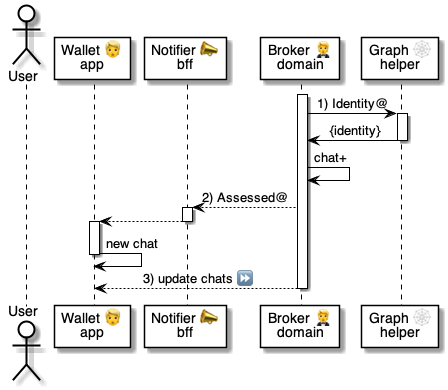
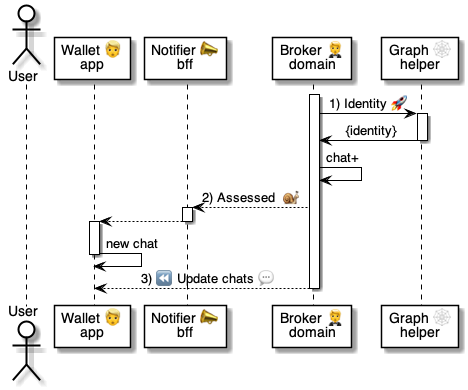
.

diff --git a/5 ⏩ Flows/10 🤵⏩ Brokers/02 🤵⏩🗄 Bind vault.md b/5 ⏩ Flows/10 🤵⏩ Brokers/02 🤵⏩🗄 Bind vault.md
@@ -19,8 +19,8 @@
 
 | # | API | Description |
 |-|-|-
-| 1 | [👥🚀🕸 Translate @ Graph](<../../6 🅰 APIs/45 🕸🅰 Graph/06 👥🚀🕸 Translate.md>) | The [Broker 🤵](<../../4 ⚙ Solution/20 🧑🦰 UI/03 🤵 Brokers/03 🤵 Broker domain.md>) translates into the user's language
-| 2 | [🤗⏩🧑🦰 Prompt @ Host](<../50 🤗⏩ Hosts/01 🤗⏩🧑🦰 Prompt.md>) | The [Broker 🤵](<../../4 ⚙ Solution/20 🧑🦰 UI/03 🤵 Brokers/03 🤵 Broker domain.md>) informs the user about the [Bind 🔗](<../../4 ⚙ Solution/20 🧑🦰 UI/24 🗄 Vaults/01 🔗 Bind.md>)
-| 3 | [🤵🐌🗄 Bound @ Vault](<../../6 🅰 APIs/95 🗄🅰 Vault/02 🤵🐌🗄 Bound.md>)| Tell [Vaults 🗄](<../../4 ⚙ Solution/20 🧑🦰 UI/24 🗄 Vaults/03 🗄🎭 Vault role.md>) about each bound [Schema Code 🧩](<../../4 ⚙ Solution/20 🧑🦰 UI/24 🗄 Vaults/02 🧩 Schema Code.md>)
-| 4 | [🤵⏩🧑🦰 Update Binds](<03 🤵⏩🧑🦰 Update binds.md>) | [Brokers 🤵](<../../4 ⚙ Solution/20 🧑🦰 UI/03 🤵 Brokers/03 🤵 Broker domain.md>) asks [Wallets 🧑🦰](<../../4 ⚙ Solution/20 🧑🦰 UI/01 🧑🦰 Wallets/01 🧑🦰 Wallet app.md>) to update the [Binds 🔗](<../../4 ⚙ Solution/20 🧑🦰 UI/24 🗄 Vaults/01 🔗 Bind.md>)
+| 1 | [👥🚀🕸 `Translate@Graph`](<../../6 🅰 APIs/45 🕸🅰 Graph/06 👥🚀🕸 Translate.md>) | The [Broker 🤵](<../../4 ⚙ Solution/20 🧑🦰 UI/03 🤵 Brokers/03 🤵 Broker domain.md>) translates into the user's language
+| 2 | [🤗⏩🧑🦰 Prompt 🤔](<../50 🤗⏩ Hosts/01 🤗⏩🧑🦰 Prompt.md>) | The [Broker 🤵](<../../4 ⚙ Solution/20 🧑🦰 UI/03 🤵 Brokers/03 🤵 Broker domain.md>) informs the user about the [Bind 🔗](<../../4 ⚙ Solution/20 🧑🦰 UI/24 🗄 Vaults/01 🔗 Bind.md>)
+| 3 | [🤵🐌🗄 `Bound@Vault`](<../../6 🅰 APIs/95 🗄🅰 Vault/02 🤵🐌🗄 Bound.md>)| Tell [Vaults 🗄](<../../4 ⚙ Solution/20 🧑🦰 UI/24 🗄 Vaults/03 🗄🎭 Vault role.md>) about each bound [Schema Code 🧩](<../../4 ⚙ Solution/20 🧑🦰 UI/24 🗄 Vaults/02 🧩 Schema Code.md>)
+| 4 | [🤵⏩🧑🦰 Update Binds 🔗](<03 🤵⏩🧑🦰 Update binds.md>) | [Brokers 🤵](<../../4 ⚙ Solution/20 🧑🦰 UI/03 🤵 Brokers/03 🤵 Broker domain.md>) asks [Wallets 🧑🦰](<../../4 ⚙ Solution/20 🧑🦰 UI/01 🧑🦰 Wallets/01 🧑🦰 Wallet app.md>) to update the [Binds 🔗](<../../4 ⚙ Solution/20 🧑🦰 UI/24 🗄 Vaults/01 🔗 Bind.md>)
 ||

diff --git a/5 ⏩ Flows/90 🧑🦰👉 Wallets/15 👉🔆 Locators/02 🧑🦰👉🤗 Scan printer QR.md b/5 ⏩ Flows/90 🧑🦰👉 Wallets/15 👉🔆 Locators/02 🧑🦰👉🤗 Scan printer QR.md
@@ -32,8 +32,8 @@
 | 1 | [👥🐌🏭 `Order@Supplier`](<../../../6 🅰 APIs/90 🏭🅰 Supplier/01 👥🐌🏭 Order.md>) | Order dynamic [Locators 🔆](<../../../4 ⚙ Solution/20 🧑🦰 UI/11 🔆 Locators/01 🔆 Locator.md>)
 | 2 | [🧑🦰🚀🤵 `Assess@Broker`](<../../../6 🅰 APIs/15 🤵🅰 Broker/30 🤵🅰 Chats 💬/01 🧑🦰🐌🤵 Assess.md>) | Parse the [Locator 🔆](<../../../4 ⚙ Solution/20 🧑🦰 UI/11 🔆 Locators/01 🔆 Locator.md>) in the [Broker 🤵](<../../../4 ⚙ Solution/20 🧑🦰 UI/03 🤵 Brokers/03 🤵 Broker domain.md>)
 | 3 | [👥🚀🖨 `Details@Printer`](<../../../6 🅰 APIs/75 🖨🅰 Printer/01 👥🚀🖨 Alias.md>) | Get the host's locator from the [Printer 🖨](<../../../4 ⚙ Solution/70 🌳 Ambient/71 💠 Brand Things/08 🖨🏭 Printer helper.md>)
-| 4 | [🤵⏩🧑🦰 Assessed](<../../10 🤵⏩ Brokers/01 🤵⏩🧑🦰 Assessed.md>) | Ask the [Wallet 🧑🦰](<../../../4 ⚙ Solution/20 🧑🦰 UI/01 🧑🦰 Wallets/01 🧑🦰 Wallet app.md>)  to open a chat window
-| 5 | [🔎⏩🧑🦰 Introduce](<../../40 🔎⏩ Finders/01 🔎⏩🧑🦰 Introduce.md>) | Ask the [Finder 🔎](<../../../4 ⚙ Solution/30 🫥 Agents/10 🔎 Finders/02 🔎🫥 Finder vault.md>) to introduce the [Host 🤗](<../../../4 ⚙ Solution/20 🧑🦰 UI/12 💬 Chats/04 🤗🎭 Host role.md>)
+| 4 | [🤵⏩🧑🦰 Assessed 🔆](<../../10 🤵⏩ Brokers/01 🤵⏩🧑🦰 Assessed.md>) | Ask the [Wallet 🧑🦰](<../../../4 ⚙ Solution/20 🧑🦰 UI/01 🧑🦰 Wallets/01 🧑🦰 Wallet app.md>)  to open a chat window
+| 5 | [🔎⏩🧑🦰 Introduce ⓘ](<../../40 🔎⏩ Finders/01 🔎⏩🧑🦰 Introduce.md>) | Ask the [Finder 🔎](<../../../4 ⚙ Solution/30 🫥 Agents/10 🔎 Finders/02 🔎🫥 Finder vault.md>) to introduce the [Host 🤗](<../../../4 ⚙ Solution/20 🧑🦰 UI/12 💬 Chats/04 🤗🎭 Host role.md>)
 | 6 | [🤵🐌🤗 `Hello@Host`](<../../../6 🅰 APIs/50 🤗🅰 Host/01 🤵🐌🤗 Hello.md>) | Ask the [Host 🤗](<../../../4 ⚙ Solution/20 🧑🦰 UI/12 💬 Chats/04 🤗🎭 Host role.md>) to interact.
 | 7 | [🤗⏩🧑🦰 Prompt 🤔](<../../50 🤗⏩ Hosts/01 🤗⏩🧑🦰 Prompt.md>) | The welcome message from the [Host 🤗](<../../../4 ⚙ Solution/20 🧑🦰 UI/12 💬 Chats/04 🤗🎭 Host role.md>) 
 ||

diff --git a/5 ⏩ Flows/90 🧑🦰👉 Wallets/15 👉🔆 Locators/01 🧑🦰👉🤗 Scan host QR.md b/5 ⏩ Flows/90 🧑🦰👉 Wallets/15 👉🔆 Locators/01 🧑🦰👉🤗 Scan host QR.md
@@ -26,8 +26,8 @@
 | # | Call | Notes
 |-|-|-
 | 1 | [🧑🦰🚀🤵 `Assess@Broker`](<../../../6 🅰 APIs/15 🤵🅰 Broker/30 🤵🅰 Chats 💬/01 🧑🦰🐌🤵 Assess.md>) | Parse the [Locator 🔆](<../../../4 ⚙ Solution/20 🧑🦰 UI/11 🔆 Locators/01 🔆 Locator.md>) in the [Broker 🤵 domain](<../../../4 ⚙ Solution/20 🧑🦰 UI/03 🤵 Brokers/03 🤵 Broker domain.md>)
-| 2 | [🤵⏩🧑🦰 Assessed](<../../10 🤵⏩ Brokers/01 🤵⏩🧑🦰 Assessed.md>) | Ask the [Wallet 🧑🦰 app](<../../../4 ⚙ Solution/20 🧑🦰 UI/01 🧑🦰 Wallets/01 🧑🦰 Wallet app.md>)  to open a chat window
-| 3 | [🔎⏩🧑🦰 Introduce](<../../40 🔎⏩ Finders/01 🔎⏩🧑🦰 Introduce.md>) | Ask the [Finder 🔎 domain](<../../../4 ⚙ Solution/30 🫥 Agents/10 🔎 Finders/02 🔎🫥 Finder vault.md>) to introduce the [Host 🤗 domain](<../../../4 ⚙ Solution/20 🧑🦰 UI/12 💬 Chats/04 🤗🎭 Host role.md>)
+| 2 | [🤵⏩🧑🦰 Assessed 🔆](<../../10 🤵⏩ Brokers/01 🤵⏩🧑🦰 Assessed.md>) | Ask the [Wallet 🧑🦰 app](<../../../4 ⚙ Solution/20 🧑🦰 UI/01 🧑🦰 Wallets/01 🧑🦰 Wallet app.md>)  to open a chat window
+| 3 | [🔎⏩🧑🦰 Introduce ⓘ](<../../40 🔎⏩ Finders/01 🔎⏩🧑🦰 Introduce.md>) | Ask the [Finder 🔎 domain](<../../../4 ⚙ Solution/30 🫥 Agents/10 🔎 Finders/02 🔎🫥 Finder vault.md>) to introduce the [Host 🤗 domain](<../../../4 ⚙ Solution/20 🧑🦰 UI/12 💬 Chats/04 🤗🎭 Host role.md>)
 | 4 | [🤵🐌🤗 `Hello@Host`](<../../../6 🅰 APIs/50 🤗🅰 Host/01 🤵🐌🤗 Hello.md>) | Ask the [Host 🤗 domain](<../../../4 ⚙ Solution/20 🧑🦰 UI/12 💬 Chats/04 🤗🎭 Host role.md>) to interact
 | 5 | [🤗⏩🧑🦰 Prompt 🤔](<../../50 🤗⏩ Hosts/01 🤗⏩🧑🦰 Prompt.md>) | The welcome message from the [Host 🤗 domain](<../../../4 ⚙ Solution/20 🧑🦰 UI/12 💬 Chats/04 🤗🎭 Host role.md>) 
 ||

diff --git a/5 ⏩ Flows/10 🤵⏩ Brokers/03 🤵⏩🧑🦰 Update binds.md b/5 ⏩ Flows/10 🤵⏩ Brokers/03 🤵⏩🧑🦰 Update binds.md
@@ -18,6 +18,6 @@
 
 | # | Call | Notes |
 |-|-|-
-| 1 | [🤵🐌📣 Updated @ Notifier](<../../6 🅰 APIs/65 📣🅰 Notifier/01 📣🤵🅰 Onboard/23 🤵🐌📣 Updated.md>)| The [Broker 🤵](<../../4 ⚙ Solution/20 🧑🦰 UI/03 🤵 Brokers/03 🤵 Broker domain.md>) tells the [Notifier 📣](<../../4 ⚙ Solution/20 🧑🦰 UI/02 📣 Notifiers/02 📣 Notifier domain.md>) to update the [Wallet 🧑🦰](<../../4 ⚙ Solution/20 🧑🦰 UI/01 🧑🦰 Wallets/01 🧑🦰 Wallet app.md>)
-| 2 | [🧑🦰🚀🤵 Binds @ Broker](<../../6 🅰 APIs/15 🤵🅰 Broker/40 🤵🅰 Binds 🔗/41 🧑🦰🚀🤵 Binds.md>) | The [Wallet 🧑🦰](<../../4 ⚙ Solution/20 🧑🦰 UI/01 🧑🦰 Wallets/01 🧑🦰 Wallet app.md>) gets the [Binds 🔗](<../../4 ⚙ Solution/20 🧑🦰 UI/24 🗄 Vaults/01 🔗 Bind.md>) from the [Broker 🤵](<../../4 ⚙ Solution/20 🧑🦰 UI/03 🤵 Brokers/03 🤵 Broker domain.md>)
+| 1 | [🤵🐌📣 `Updated@Notifier`](<../../6 🅰 APIs/65 📣🅰 Notifier/01 📣🤵🅰 Onboard/23 🤵🐌📣 Updated.md>)| The [Broker 🤵](<../../4 ⚙ Solution/20 🧑🦰 UI/03 🤵 Brokers/03 🤵 Broker domain.md>) tells the [Notifier 📣](<../../4 ⚙ Solution/20 🧑🦰 UI/02 📣 Notifiers/02 📣 Notifier domain.md>) to update the [Wallet 🧑🦰](<../../4 ⚙ Solution/20 🧑🦰 UI/01 🧑🦰 Wallets/01 🧑🦰 Wallet app.md>)
+| 2 | [🧑🦰🚀🤵 `Binds@Broker`](<../../6 🅰 APIs/15 🤵🅰 Broker/40 🤵🅰 Binds 🔗/41 🧑🦰🚀🤵 Binds.md>) | The [Wallet 🧑🦰](<../../4 ⚙ Solution/20 🧑🦰 UI/01 🧑🦰 Wallets/01 🧑🦰 Wallet app.md>) gets the [Binds 🔗](<../../4 ⚙ Solution/20 🧑🦰 UI/24 🗄 Vaults/01 🔗 Bind.md>) from the [Broker 🤵](<../../4 ⚙ Solution/20 🧑🦰 UI/03 🤵 Brokers/03 🤵 Broker domain.md>)
 ||

diff --git a/5 ⏩ Flows/10 🤵⏩ Brokers/04 🤵⏩🧑🦰 Update tokens.md b/5 ⏩ Flows/10 🤵⏩ Brokers/04 🤵⏩🧑🦰 Update tokens.md
@@ -17,6 +17,6 @@
 
 | # | Call | Notes |
 |-|-|-
-| 1 | [🤵🐌📣 Updated @ Notifier](<../../6 🅰 APIs/65 📣🅰 Notifier/01 📣🤵🅰 Onboard/23 🤵🐌📣 Updated.md>)| The [Broker 🤵](<../../4 ⚙ Solution/20 🧑🦰 UI/03 🤵 Brokers/03 🤵 Broker domain.md>) tells the [Notifier 📣](<../../4 ⚙ Solution/20 🧑🦰 UI/02 📣 Notifiers/02 📣 Notifier domain.md>) to update the [Wallet 🧑🦰](<../../4 ⚙ Solution/20 🧑🦰 UI/01 🧑🦰 Wallets/01 🧑🦰 Wallet app.md>)
-| 2 | [🧑🦰🚀🤵 Tokens @ Broker](<../../6 🅰 APIs/15 🤵🅰 Broker/50 🤵🅰 Tokens 🎫/54 🧑🦰🚀🤵 Tokens.md>) | The [Wallet 🧑🦰](<../../4 ⚙ Solution/20 🧑🦰 UI/01 🧑🦰 Wallets/01 🧑🦰 Wallet app.md>) gets the [Tokens 🎫](<../../4 ⚙ Solution/20 🧑🦰 UI/25 🎫 Tokens/01 🎫 Token.md>) from the [Broker 🤵](<../../4 ⚙ Solution/20 🧑🦰 UI/03 🤵 Brokers/03 🤵 Broker domain.md>)
+| 1 | [🤵🐌📣 `Updated@Notifier`](<../../6 🅰 APIs/65 📣🅰 Notifier/01 📣🤵🅰 Onboard/23 🤵🐌📣 Updated.md>)| [Brokers 🤵](<../../4 ⚙ Solution/20 🧑🦰 UI/03 🤵 Brokers/03 🤵 Broker domain.md>) tell [Notifiers 📣](<../../4 ⚙ Solution/20 🧑🦰 UI/02 📣 Notifiers/02 📣 Notifier domain.md>) to update [Wallets 🧑🦰](<../../4 ⚙ Solution/20 🧑🦰 UI/01 🧑🦰 Wallets/01 🧑🦰 Wallet app.md>)
+| 2 | [🧑🦰🚀🤵 `Tokens@Broker`](<../../6 🅰 APIs/15 🤵🅰 Broker/50 🤵🅰 Tokens 🎫/54 🧑🦰🚀🤵 Tokens.md>) | [Wallets 🧑🦰](<../../4 ⚙ Solution/20 🧑🦰 UI/01 🧑🦰 Wallets/01 🧑🦰 Wallet app.md>) get [Tokens 🎫](<../../4 ⚙ Solution/20 🧑🦰 UI/25 🎫 Tokens/01 🎫 Token.md>) from [Brokers 🤵](<../../4 ⚙ Solution/20 🧑🦰 UI/03 🤵 Brokers/03 🤵 Broker domain.md>)
 ||

diff --git a/5 ⏩ Flows/10 🤵⏩ Brokers/05 🤵⏩🧑🦰 Update chats.md b/5 ⏩ Flows/10 🤵⏩ Brokers/05 🤵⏩🧑🦰 Update chats.md
@@ -14,6 +14,6 @@
 
 | # | Call | Notes |
 |-|-|-
-| 1 | [🤵🐌📣 Updated @ Notifier](<../../6 🅰 APIs/65 📣🅰 Notifier/01 📣🤵🅰 Onboard/23 🤵🐌📣 Updated.md>)| The [Broker 🤵](<../../4 ⚙ Solution/20 🧑🦰 UI/03 🤵 Brokers/03 🤵 Broker domain.md>) tells the [Notifier 📣](<../../4 ⚙ Solution/20 🧑🦰 UI/02 📣 Notifiers/02 📣 Notifier domain.md>) to update the [Wallet 🧑🦰 app](<../../4 ⚙ Solution/20 🧑🦰 UI/01 🧑🦰 Wallets/01 🧑🦰 Wallet app.md>).
-| 2 | [🧑🦰🚀🤵 Chats @ Broker](<../../6 🅰 APIs/15 🤵🅰 Broker/30 🤵🅰 Chats 💬/02 🧑🦰🚀🤵 Chats.md>) | The [Wallet 🧑🦰 app](<../../4 ⚙ Solution/20 🧑🦰 UI/01 🧑🦰 Wallets/01 🧑🦰 Wallet app.md>) gets the [Chats 💬](<../../4 ⚙ Solution/20 🧑🦰 UI/12 💬 Chats/01 💬 Chat.md>) from the [Broker 🤵](<../../4 ⚙ Solution/20 🧑🦰 UI/03 🤵 Brokers/03 🤵 Broker domain.md>).
+| 1 | [🤵🐌📣 `Updated@Notifier`](<../../6 🅰 APIs/65 📣🅰 Notifier/01 📣🤵🅰 Onboard/23 🤵🐌📣 Updated.md>)| [Brokers 🤵](<../../4 ⚙ Solution/20 🧑🦰 UI/03 🤵 Brokers/03 🤵 Broker domain.md>) tell [Notifiers 📣](<../../4 ⚙ Solution/20 🧑🦰 UI/02 📣 Notifiers/02 📣 Notifier domain.md>) to update [Wallets 🧑🦰](<../../4 ⚙ Solution/20 🧑🦰 UI/01 🧑🦰 Wallets/01 🧑🦰 Wallet app.md>)
+| 2 | [🧑🦰🚀🤵 `Chats@Broker`](<../../6 🅰 APIs/15 🤵🅰 Broker/30 🤵🅰 Chats 💬/02 🧑🦰🚀🤵 Chats.md>) | [Wallets 🧑🦰](<../../4 ⚙ Solution/20 🧑🦰 UI/01 🧑🦰 Wallets/01 🧑🦰 Wallet app.md>) get [Chats 💬](<../../4 ⚙ Solution/20 🧑🦰 UI/12 💬 Chats/01 💬 Chat.md>) from [Brokers 🤵](<../../4 ⚙ Solution/20 🧑🦰 UI/03 🤵 Brokers/03 🤵 Broker domain.md>)
 ||

diff --git a/5 ⏩ Flows/70 ⭐⏩ Reviewers/01 ⭐⏩🧑🦰 Review.md b/5 ⏩ Flows/70 ⭐⏩ Reviewers/01 ⭐⏩🧑🦰 Review.md
@@ -14,7 +14,7 @@
 |-|-|-
 | 1 | [🤵🐌⭐ Rate @ Reviewer](<../../6 🅰 APIs/80 ⭐🅰 Reviewer/02 🤵🐌⭐ Rate.md>) | [Brokers 🤵](<../../4 ⚙ Solution/20 🧑🦰 UI/03 🤵 Brokers/03 🤵 Broker domain.md>) ask [Reviewers ⭐](<../../4 ⚙ Solution/30 🫥 Agents/10 🔎 Finders/01 ⭐🫥 Reviewer vault.md>) to review
 | 2 | [👥🚀🕸 Service @ Graph](<../../6 🅰 APIs/45 🕸🅰 Graph/09 👥🚀🕸 Offer.md>) | [Reviewers ⭐](<../../4 ⚙ Solution/30 🫥 Agents/10 🔎 Finders/01 ⭐🫥 Reviewer vault.md>) pull specific service questions 
-| 3 | [🤗⏩🧑🦰 Prompt @ Host](<../50 🤗⏩ Hosts/01 🤗⏩🧑🦰 Prompt.md>) | [Reviewers ⭐](<../../4 ⚙ Solution/30 🫥 Agents/10 🔎 Finders/01 ⭐🫥 Reviewer vault.md>) ask [Wallets 🧑🦰](<../../4 ⚙ Solution/20 🧑🦰 UI/01 🧑🦰 Wallets/01 🧑🦰 Wallet app.md>) for feedback
+| 3 | [🤗⏩🧑🦰 Prompt 🤔](<../50 🤗⏩ Hosts/01 🤗⏩🧑🦰 Prompt.md>) | [Reviewers ⭐](<../../4 ⚙ Solution/30 🫥 Agents/10 🔎 Finders/01 ⭐🫥 Reviewer vault.md>) ask [Wallets 🧑🦰](<../../4 ⚙ Solution/20 🧑🦰 UI/01 🧑🦰 Wallets/01 🧑🦰 Wallet app.md>) for feedback
 | 4 | [⭐🐌🤗 Rated @ Host](<../../6 🅰 APIs/50 🤗🅰 Host/09 ⭐🐌🤗 Rated.md>) | Later, [Reviewers ⭐](<../../4 ⚙ Solution/30 🫥 Agents/10 🔎 Finders/01 ⭐🫥 Reviewer vault.md>) may report to [Hosts 🤗](<../../4 ⚙ Solution/20 🧑🦰 UI/12 💬 Chats/04 🤗🎭 Host role.md>)
 | 5 | [🌬⏩💼 Ingest @ Consumer](<../78  🌬⏩ Streamers/01 🌬⏩🔔 Stream.md>) | Later, [Reviewers ⭐](<../../4 ⚙ Solution/30 🫥 Agents/10 🔎 Finders/01 ⭐🫥 Reviewer vault.md>) alert subscriber [Finders 🔎](<../../4 ⚙ Solution/30 🫥 Agents/10 🔎 Finders/02 🔎🫥 Finder vault.md>)
 ||

diff --git a/5 ⏩ Flows/05 👀⏩ Advertisers/01 👀⏩🧑🦰 Advertise.md b/5 ⏩ Flows/05 👀⏩ Advertisers/01 👀⏩🧑🦰 Advertise.md
@@ -29,6 +29,6 @@
 | 5 | [🧚🐌👀 Anonymized @ Advertiser](<../../6 🅰 APIs/05 👀🅰 Advertiser/03 🧚🐌👀 Anonymized.md>) | [Curators 🧚♀](<../../4 ⚙ Solution/30 🫥 Agents/03 🧚 Curators/01 🧚🫥 Curator agent.md>) add anonymized summaries to context
 | 6 | [👀🐌🧚 Sort @ Curator](<../../6 🅰 APIs/35 🧚🅰 Curator/02 👀🐌🧚 Sort.md>) | [Advertisers 👀](<../../4 ⚙ Solution/30 🫥 Agents/10 🔎 Finders/03 👀👥 Advertiser helper.md>) ask [Curators 🧚♀](<../../4 ⚙ Solution/30 🫥 Agents/03 🧚 Curators/01 🧚🫥 Curator agent.md>) to sort possible ads
 | 7 | [🧚🐌👀 Sorted @ Advertiser](<../../6 🅰 APIs/05 👀🅰 Advertiser/04 🧚🐌👀 Sorted.md>) | [Curators 🧚♀](<../../4 ⚙ Solution/30 🫥 Agents/03 🧚 Curators/01 🧚🫥 Curator agent.md>) return their view of user preferences
-| 8 | [🤗⏩🧑🦰 Prompt @ Host](<../50 🤗⏩ Hosts/01 🤗⏩🧑🦰 Prompt.md>) | [Advertisers 👀](<../../4 ⚙ Solution/30 🫥 Agents/10 🔎 Finders/03 👀👥 Advertiser helper.md>) show  next best actions to [Wallets 🧑🦰](<../../4 ⚙ Solution/20 🧑🦰 UI/01 🧑🦰 Wallets/01 🧑🦰 Wallet app.md>)
+| 8 | [🤗⏩🧑🦰 Prompt 🤔](<../50 🤗⏩ Hosts/01 🤗⏩🧑🦰 Prompt.md>) | [Advertisers 👀](<../../4 ⚙ Solution/30 🫥 Agents/10 🔎 Finders/03 👀👥 Advertiser helper.md>) show  next best actions to [Wallets 🧑🦰](<../../4 ⚙ Solution/20 🧑🦰 UI/01 🧑🦰 Wallets/01 🧑🦰 Wallet app.md>)
 | 9 | [👀🐌🤵 Promote @ Broker](<../../6 🅰 APIs/15 🤵🅰 Broker/30 🤵🅰 Chats 💬/06 👀🐌🤵 Promote.md>) | Then ask [Brokers 🤵](<../../4 ⚙ Solution/20 🧑🦰 UI/03 🤵 Brokers/03 🤵 Broker domain.md>) to check-in into any selection
 ||

diff --git a/5 ⏩ Flows/90 🧑🦰👉 Wallets/30 👉🔗 Binds/03 🧑🦰👉🗄 Unbind.md b/5 ⏩ Flows/90 🧑🦰👉 Wallets/30 👉🔗 Binds/03 🧑🦰👉🗄 Unbind.md
@@ -34,5 +34,5 @@
 | 1 | [🧑🦰🐌🤗 `Home@Host`](<../../../6 🅰 APIs/50 🤗🅰 Host/02 🤵🐌🤗 Home.md>) | Call the [Broker 🤵](<../../../4 ⚙ Solution/20 🧑🦰 UI/03 🤵 Brokers/03 🤵 Broker domain.md>) in a [Chat 💬](<../../../4 ⚙ Solution/20 🧑🦰 UI/12 💬 Chats/01 💬 Chat.md>)  with a [Host 🤗](<../../../4 ⚙ Solution/20 🧑🦰 UI/12 💬 Chats/04 🤗🎭 Host role.md>) 
 | 2 | [🤗⏩🧑🦰 `Prompt@Host`](<../../50 🤗⏩ Hosts/01 🤗⏩🧑🦰 Prompt.md>) | Ask the [Broker 🤵](<../../../4 ⚙ Solution/20 🧑🦰 UI/03 🤵 Brokers/03 🤵 Broker domain.md>) to remove the  [Bind 🔗](<../../../4 ⚙ Solution/20 🧑🦰 UI/24 🗄 Vaults/01 🔗 Bind.md>)
 | 3 | [🤵🐌🗄 `Unbound@Vault`](<../../../6 🅰 APIs/95 🗄🅰 Vault/02 🤵🐌🗄 Unbind.md>) | The [Broker 🤵](<../../../4 ⚙ Solution/20 🧑🦰 UI/03 🤵 Brokers/03 🤵 Broker domain.md>) unbinds and informs the [Vault 🗄](<../../../4 ⚙ Solution/20 🧑🦰 UI/24 🗄 Vaults/03 🗄🎭 Vault role.md>)
-| 4 | [🤵⏩🧑🦰 Update Binds](<../../10 🤵⏩ Brokers/03 🤵⏩🧑🦰 Update binds.md>) | Asks the [Wallet 🧑🦰](<../../../4 ⚙ Solution/20 🧑🦰 UI/01 🧑🦰 Wallets/01 🧑🦰 Wallet app.md>) to update the [Binds 🔗](<../../../4 ⚙ Solution/20 🧑🦰 UI/24 🗄 Vaults/01 🔗 Bind.md>)
+| 4 | [🤵⏩🧑🦰 Update Binds 🔗](<../../10 🤵⏩ Brokers/03 🤵⏩🧑🦰 Update binds.md>) | Asks the [Wallet 🧑🦰](<../../../4 ⚙ Solution/20 🧑🦰 UI/01 🧑🦰 Wallets/01 🧑🦰 Wallet app.md>) to update the [Binds 🔗](<../../../4 ⚙ Solution/20 🧑🦰 UI/24 🗄 Vaults/01 🔗 Bind.md>)
 |

diff --git a/5 ⏩ Flows/90 🧑🦰👉 Wallets/40 👉🎫 Tokens/03 🧑🦰👉🤵 Remove token.md b/5 ⏩ Flows/90 🧑🦰👉 Wallets/40 👉🎫 Tokens/03 🧑🦰👉🤵 Remove token.md
@@ -33,6 +33,6 @@
 |-|-|-
 | 1 | [🧑🦰🐌🤗 `Home@Host`](<../../../6 🅰 APIs/50 🤗🅰 Host/02 🤵🐌🤗 Home.md>) | The user calls the [Broker 🤵](<../../../4 ⚙ Solution/20 🧑🦰 UI/03 🤵 Brokers/03 🤵 Broker domain.md>) from the [Token 🎫](<../../../4 ⚙ Solution/20 🧑🦰 UI/25 🎫 Tokens/01 🎫 Token.md>)
 | 2 | [🤗⏩🧑🦰 Prompt 🤔](<../../50 🤗⏩ Hosts/01 🤗⏩🧑🦰 Prompt.md>) | Then tells the [Broker 🤵](<../../../4 ⚙ Solution/20 🧑🦰 UI/03 🤵 Brokers/03 🤵 Broker domain.md>) to remove the [Token 🎫](<../../../4 ⚙ Solution/20 🧑🦰 UI/25 🎫 Tokens/01 🎫 Token.md>) 
-| 3 | [🤵⏩🎫 Update Tokens](<../../10 🤵⏩ Brokers/04 🤵⏩🧑🦰 Update tokens.md>) | The [Broker 🤵](<../../../4 ⚙ Solution/20 🧑🦰 UI/03 🤵 Brokers/03 🤵 Broker domain.md>) tells the [Wallet 🧑🦰](<../../../4 ⚙ Solution/20 🧑🦰 UI/01 🧑🦰 Wallets/01 🧑🦰 Wallet app.md>) to update the list
+| 3 | [🤵⏩🧑🦰 Update Tokens 🎫](<../../10 🤵⏩ Brokers/04 🤵⏩🧑🦰 Update tokens.md>) | The [Broker 🤵](<../../../4 ⚙ Solution/20 🧑🦰 UI/03 🤵 Brokers/03 🤵 Broker domain.md>) tells the [Wallet 🧑🦰](<../../../4 ⚙ Solution/20 🧑🦰 UI/01 🧑🦰 Wallets/01 🧑🦰 Wallet app.md>) to update the list
 | 4 | [🤵🐌📣 `Remove@Notifier`](<../../../6 🅰 APIs/65 📣🅰 Notifier/04 📣🎫🅰 Tokens/42 🤵🐌📣 Remove.md>) | The [Broker 🤵](<../../../4 ⚙ Solution/20 🧑🦰 UI/03 🤵 Brokers/03 🤵 Broker domain.md>) tells the [Wallet 🧑🦰](<../../../4 ⚙ Solution/20 🧑🦰 UI/01 🧑🦰 Wallets/01 🧑🦰 Wallet app.md>) to remove it
 ||
